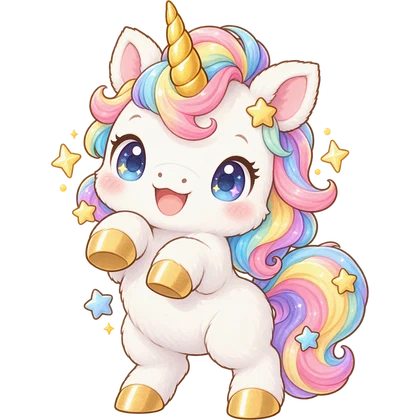
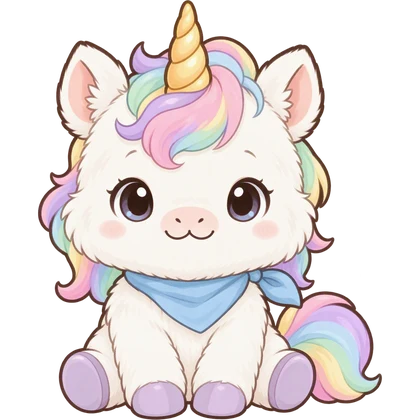
Add files via upload

diff --git a/js/features.js b/js/features.js
@@ -4982,8 +4982,9 @@ function seaDeco(x, y, d, foam){
 function harborStyle(x, y){
   const t = save.town, L = townCalc().L, m = [];
   const land = (a,b) => a>=0 && b>=0 && a<L.cols && b<L.rows && !isWater(t.cells[`${a},${b}`]);
-  SIDES.forEach(([s,dx,dy,dir]) => { if(land(x+dx,y+dy)) m.push(`linear-gradient(${dir}, transparent 0%, #000 26%)`); });
-  return m.length ? `-webkit-mask-image:${m.join(',')};mask-image:${m.join(',')};-webkit-mask-composite:source-in;mask-composite:intersect;` : '';
+  /* v6.8：海がわも ふちを ぼかして、下に かいた 海と なじませる */
+  SIDES.forEach(([s,dx,dy,dir]) => { m.push(land(x+dx,y+dy) ? `linear-gradient(${dir}, transparent 0%, transparent 6%, #000 30%)` : `linear-gradient(${dir}, transparent 0%, rgba(0,0,0,.35) 9%, #000 22%)`); });
+  return `-webkit-mask-image:${m.join(',')};mask-image:${m.join(',')};-webkit-mask-composite:source-in;mask-composite:intersect;`;
 }
 function drawSea(){
   const map = $('#townMap'); if(!map || !save.town) return;
@@ -5007,7 +5008,7 @@ function seaCanvas(map){
   const DD = [], MK = [];
   for(let y=0; y<L.rows; y++) for(let x=0; x<L.cols; x++){ const k = `${x},${y}`, id = cells[k], i = y*L.cols + x;
     if(id===SEA){ DD[i] = Math.min(5, DEPTH[k]||5); MK[i] = 1; }
-    else if(id===HARBOR){ DD[i] = 2.6; MK[i] = 1; }
+    else if(id===HARBOR){ DD[i] = 2.05; MK[i] = 1; }
     else if(id===RIVER || id===BRIDGE){ DD[i] = 2.6; MK[i] = 0; }
     else { DD[i] = 0; MK[i] = 0; } }
   const at = (A, x, y) => A[Math.max(0, Math.min(L.rows-1, y))*L.cols + Math.max(0, Math.min(L.cols-1, x))];
@@ -5645,4 +5646,33 @@ setZoom = function(z){ save.town.zoom = Math.max(ZMIN, Math.min(ZMAX, Math.round
 try{ const sm = $('.zoomBar small'); if(sm) sm.textContent = '2本ゆびで ひろげたり ちぢめたり できるよ'; }catch(e){}
 renderSettings = (orig => function(){ const o = orig.apply(this, arguments); try{ const v = $('#verNote'); if(v) v.textContent = `まなびタウン v${VER67}`; }catch(e){} return o; })(renderSettings);
 window.__v67 = {P};
+})();
+
+/* =====================================================================
+   まなびタウン v6.8：高層ビルを 2×1マスに・港を 海に なじませる
+   ===================================================================== */
+(function(){
+'use strict';
+const VER68 = '6.8.0', BIG = {office:[2,1]};
+Object.entries(BIG).forEach(([id, s]) => { const it = ITEM(id); if(it) it.sz = s; try{ window.__big64.SZ[id] = s; }catch(e){} });
+function migrate(){
+  const t = save.town; if(!t || t.big68) return;
+  const moved = [];
+  Object.keys(t.cells).forEach(k => { const id = t.cells[k]; if(!BIG[id]) return;
+    t.inv[id] = (t.inv[id]||0) + 1;
+    const g = (t.glv||{})[k]; if(g){ t.glvKeep = t.glvKeep || {}; (t.glvKeep[id] = t.glvKeep[id] || []).push(g); delete t.glv[k]; }
+    delete t.cells[k]; moved.push(id); });
+  t.big68 = 1; if(moved.length) t.big68msg = moved; persist();
+}
+async function notice(){
+  const t = save.town; if(!t || !t.big68msg || $('#dlg').classList.contains('show')) return;
+  delete t.big68msg; persist(); const it = ITEM('office');
+  await dialog(`<div class="dlgArt big">${picHTML(it)}</div><h2 class="dlgT">🏢 高層ビルが 大きく なったよ！</h2>
+    <p class="dlgP">高層ビルが <b>2×1マス</b>の 大きな たてものに なったよ。<br>おいてあった 高層ビルは いちど <b>トレイ（もようがえ）</b>に しまったので、2マス あいている ところに おきなおしてね。</p>
+    <p class="dlgP facNote">★グレードは そのまま のこっているよ。<br>100かいタワーは 高層ビルを おきなおすと また あそべるよ。</p>`, [{label:'わかった！', cls:'gold', v:1}], 'wide');
+}
+renderMap = (orig => function(){ try{ migrate(); }catch(e){} return orig.apply(this, arguments); })(renderMap);
+try{ migrate(); }catch(e){}
+setInterval(() => { if(curScreen==='town' && save.town && save.town.big68msg && !document.hidden) notice(); }, 3000);
+renderSettings = (orig => function(){ const o = orig.apply(this, arguments); try{ const v = $('#verNote'); if(v) v.textContent = `まなびタウン v${VER68}`; }catch(e){} return o; })(renderSettings);
 })();
